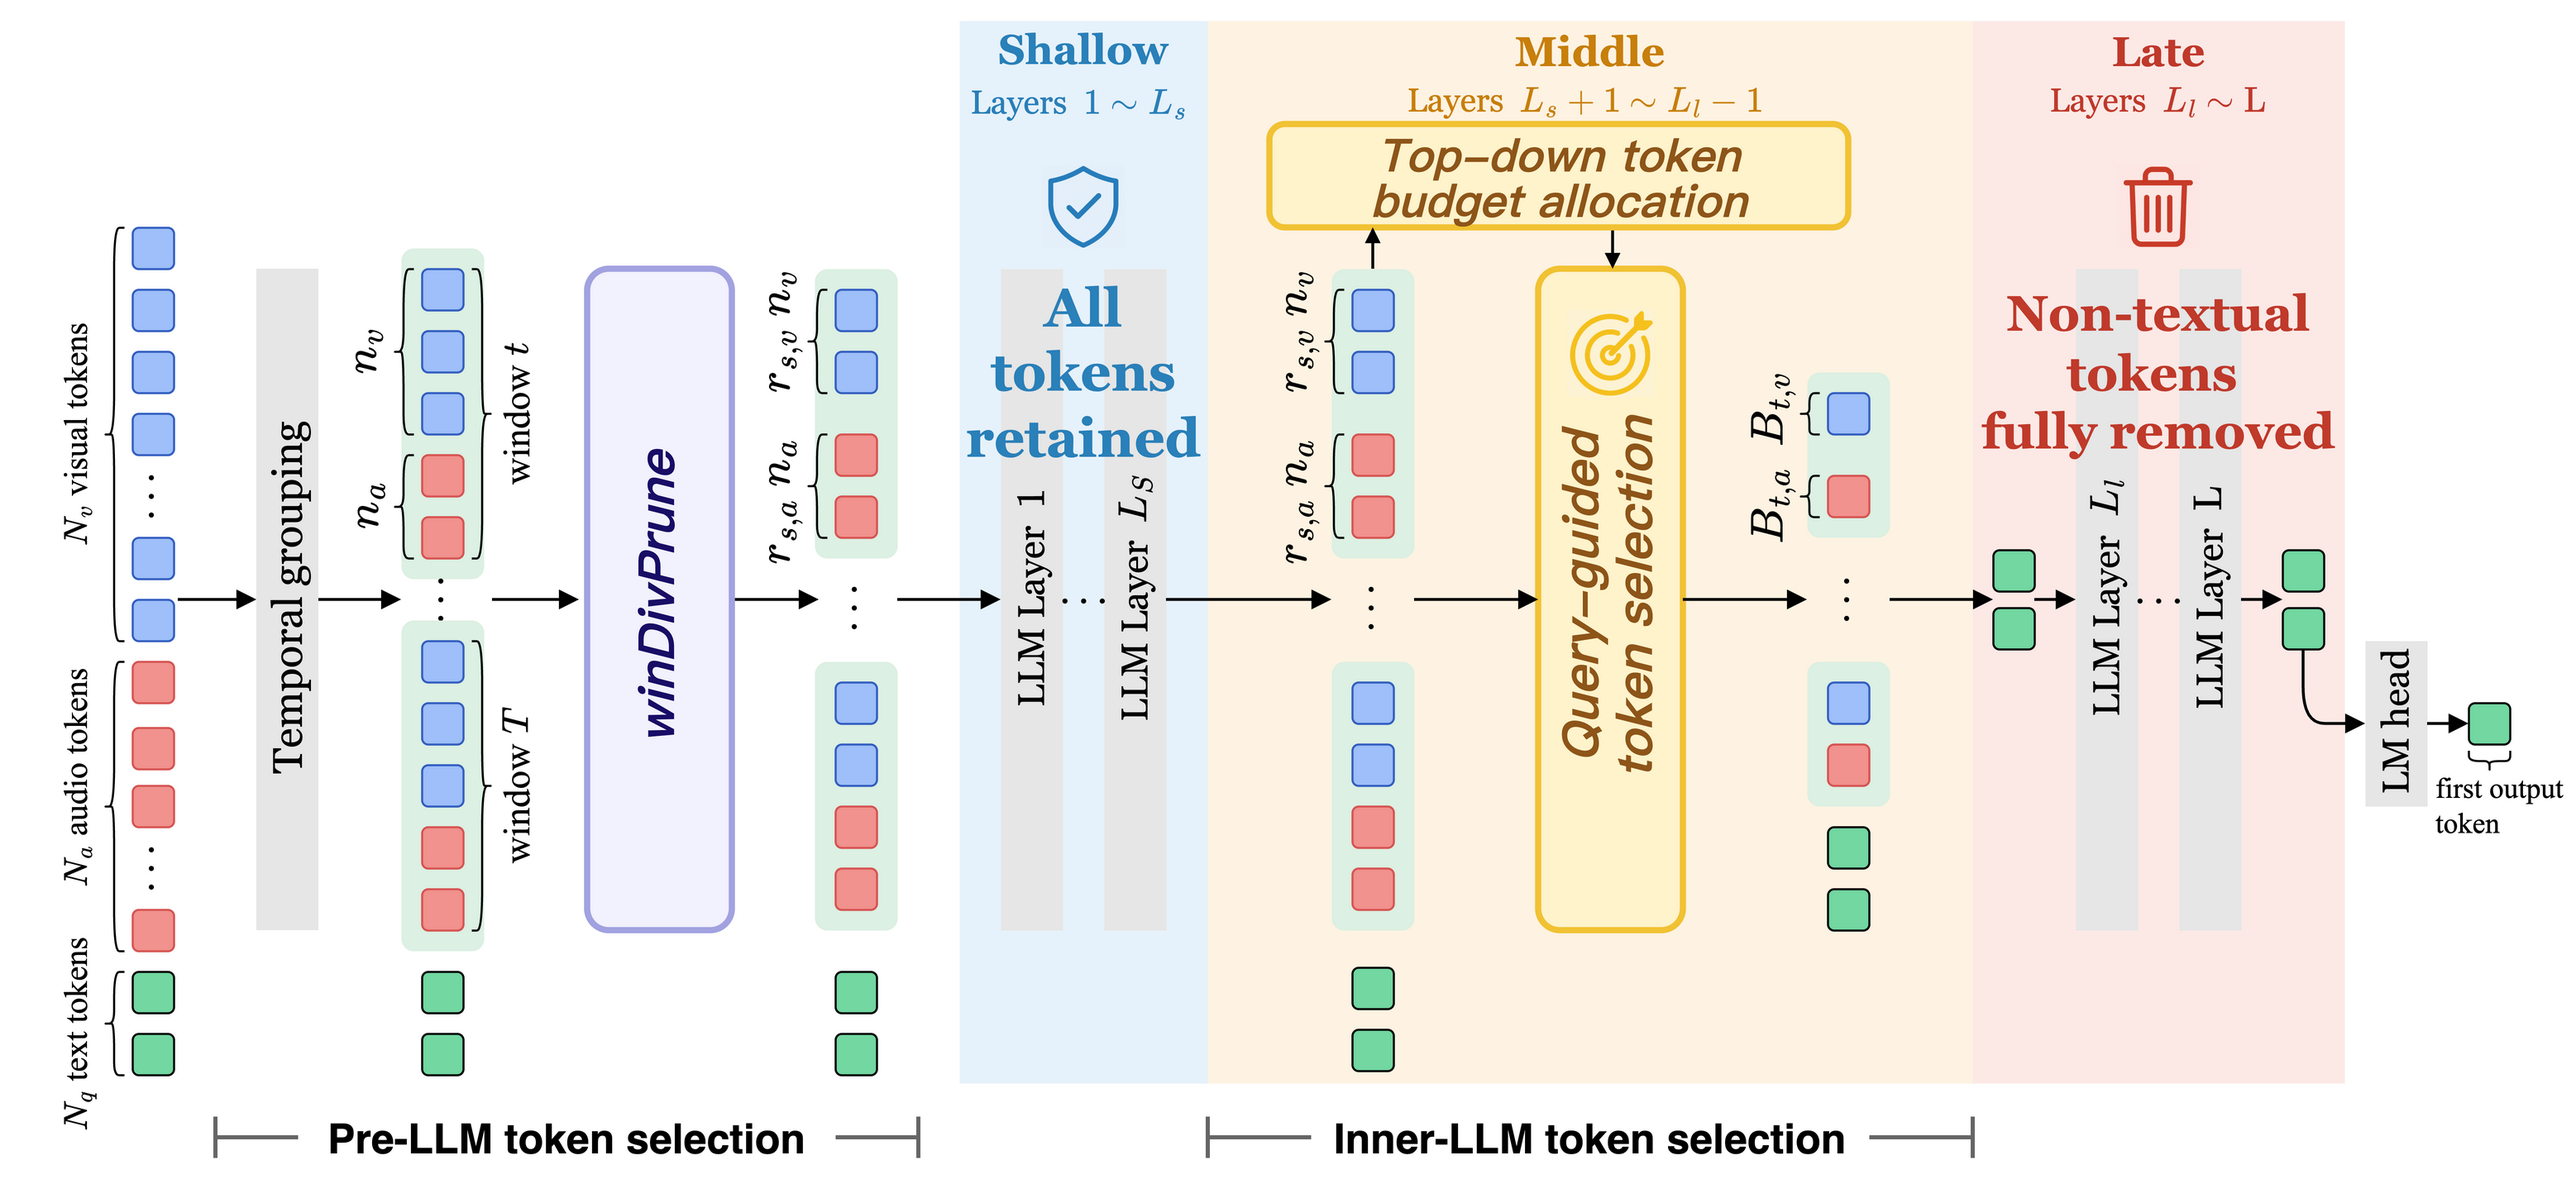
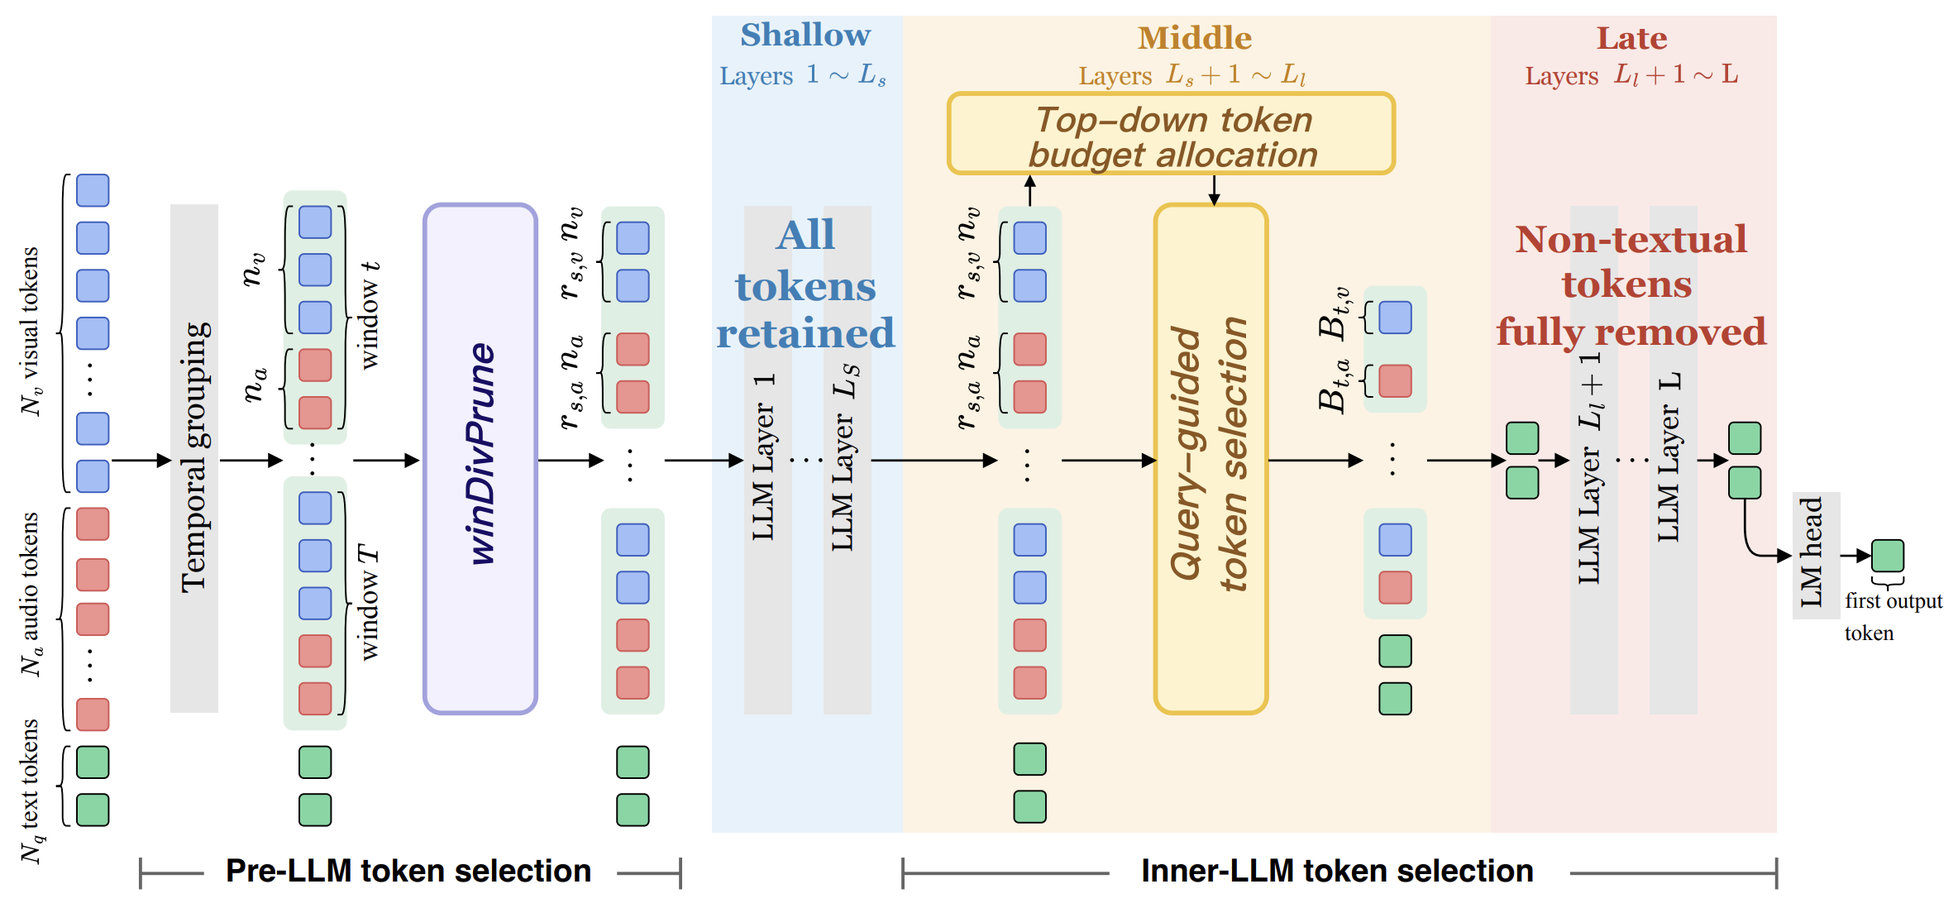
Update SEATS to paper v2: model-agnostic boundaries and linear TRR decay

diff --git a/seats/ratio_decay_scheduler.py b/seats/ratio_decay_scheduler.py
@@ -48,8 +48,8 @@ def block_wise_ratio_decay_schedule(
     else:
         drop_layers = []
 
-    # late_block_layer=24 maps to remove_layer=23 (remove before layer 24).
-    remove_layer = (late_block_layer - 1) if late_block_layer is not None else L
+    # late_block_layer=23 means remove after layer 23.
+    remove_layer = late_block_layer if late_block_layer is not None else L
     remove_layer = min(remove_layer, L)
 
     def _solve_with_remove(enc_ratio, target_ratio, remove_layer):
@@ -81,6 +81,9 @@ def block_wise_ratio_decay_schedule(
                 # Exponential weights: 1, e, e^2, ... (e ~= 2.718).
                 import math
                 return [math.exp(i) for i in range(K)]
+            elif progressive_schedule == "linear":
+                # linear step: arithmetic increase 1, 2, ..., K (shallower drops less, deeper drops more).
+                return [float(i + 1) for i in range(K)]
             else:
                 raise ValueError(f"Unknown progressive_schedule: '{progressive_schedule}'")
 

diff --git a/seats/modeling_qwen3_omni_seats.py b/seats/modeling_qwen3_omni_seats.py
@@ -121,9 +121,9 @@ def Qwen3OmniMoeThinkerTextModel_forward_seats(
                     video_token_mask=self.seats_video_token_mask,
                 )
 
-            # --- Late-block: remove all non-textual tokens (before late_block_layer) ---
+            # --- Late-block: remove all non-textual tokens (after late_block_layer) ---
             late_block_layer = seats_cfg.get("late_block_layer")
-            if late_block_layer is not None and (layer_idx + 1) == late_block_layer - 1:
+            if late_block_layer is not None and (layer_idx + 1) == late_block_layer:
                 (hidden_states, attention_mask, position_ids, position_embeddings, cache_position, past_key_values, keep_mask) = \
                     remove_non_textual_tokens_qwen3(
                     hidden_states=hidden_states,

diff --git a/seats/modeling_qwen2_5_omni_seats.py b/seats/modeling_qwen2_5_omni_seats.py
@@ -134,9 +134,9 @@ def Qwen2_5OmniThinkerTextModel_forward_seats(
                     video_token_mask=self.seats_video_token_mask,
                 )
 
-            # --- Late-block: remove all non-textual tokens (before late_block_layer) ---
+            # --- Late-block: remove all non-textual tokens (after late_block_layer) ---
             late_block_layer = seats_cfg.get("late_block_layer")
-            if late_block_layer is not None and (layer_idx + 1) == late_block_layer - 1:
+            if late_block_layer is not None and (layer_idx + 1) == late_block_layer:
                 (hidden_states, causal_mask, position_ids, position_embeddings, cache_position, past_key_values, keep_mask) = \
                     remove_non_textual_tokens(
                     hidden_states=hidden_states,

diff --git a/README.md b/README.md
@@ -37,6 +37,7 @@
 
 
 ## 📢 News
+- **[2026/09/27]** 📄 Updated paper on [arXiv](https://arxiv.org/abs/2605.20035) with model-agnostic block boundaries, simplified TRR decay schedule, and experiments extended to three om-LLMs and six benchmarks.
 - **[2026/07/12]** 🚀 Released SEATS code for **Qwen3-Omni-30B**, with baselines and evaluation scripts.
 - **[2026/06/07]** 🚀 Released SEATS code for **Qwen2.5-Omni-7B**, with LMMs-Eval integration and baselines including [VisionZip, FastV, OmniZip, and their omni-modal variants](https://github.com/xxayt/SEATS#baselines).
 - **[2026/05/19]** 📄 Paper released on [arXiv](https://arxiv.org/abs/2605.20035) and [project page](https://xxayt.github.io/SEATS/) is online.
@@ -48,9 +49,9 @@
 
 ## ✨ Key Highlights
 - 💡 **New Insight:** Reveals a block-wise dependence pattern in omni-modal LLMs, where reliance on visual and audio tokens weakens with layer depth.
-- ⚡ **Strong Efficiency:** **9.3x FLOPs reduction** and **4.8x prefill speedup** at 10% token retention while preserving **96.3%** performance.
+- ⚡ **Strong Efficiency:** **9.3x FLOPs reduction** and **4.9x prefill speedup** at 10% token retention while preserving **94.9%** performance.
 - 🎯 **Stage-adaptive Design:** Diversity-based pre-LLM selection + query-guided inner-LLM progressive pruning + late-layer full removal.
-- 🔌 **Broad Compatibility:** Plug-and-play and training-free for direct application to Qwen2.5-Omni-7B and Qwen3-Omni-30B.
+- 🔌 **Broad Compatibility:** Plug-and-play and training-free for direct application to Qwen2.5-Omni-7B, OmniVinci-9B, and Qwen3-Omni-30B.
 
 
 ## 📅 TODO
@@ -67,7 +68,7 @@
 ![Method](assets/method.png)
 SEATS is a three-stage method:
 1. **Pre-LLM Token Selection:** Removes spatiotemporal redundancy within each temporal window via attention-weighted diversity selection.
-2. **Inner-LLM Token Selection:** Progressively prunes tokens with a block-wise token retention ratio decay schedule and top-down budget allocation (inter-window then intra-window) guided by query relevance.
+2. **Inner-LLM Token Selection:** Progressively prunes tokens with a model-agnostic block-wise token retention ratio decay schedule and top-down budget allocation (inter-window then intra-window) guided by query relevance.
 3. **Late-block Removal:** Removes all remaining non-textual tokens in late layers where cross-modal fusion is complete.
 
 ## 🔧 Dependencies and Installation
@@ -128,9 +129,9 @@ bash scripts/eval_qwen3_omni_seats.sh    # Qwen3-Omni-30B
 
 You can customize the compression settings by editing:
 - `scripts/eval_qwen2_5_omni_seats.sh` — `tasks_list` (which benchmarks to run) and `ratio_pairs` (per-modality token retention budgets, swept over multiple settings).
-- `seats/config.yaml` — SEATS method hyperparameters (e.g., progressive drop layers, late-block layer, window size).
+- `seats/yaml/config_qwen25_7b.yaml` — SEATS method hyperparameters (e.g., progressive drop layers, late-block layer, window size).
 
-Qwen3-Omni-30B scripts follow the same pattern (`scripts/eval_qwen3_omni_seats.sh` + `seats/config_qwen3_30b.yaml`).
+Qwen3-Omni-30B scripts follow the same pattern (`scripts/eval_qwen3_omni_seats.sh` + `seats/yaml/config_qwen3_30b.yaml`).
 
 
 ### Baselines
@@ -173,7 +174,7 @@ SEATS/
 │   ├── ratio_decay_scheduler.py      # block-wise TRR decay schedule
 │   ├── modeling_qwen2_5_omni_seats.py # patched Thinker / TextModel forwards (Qwen2.5-Omni)
 │   ├── modeling_qwen3_omni_seats.py  # patched Thinker / TextModel forwards (Qwen3-Omni)
-│   └── config.yaml                   # SEATS hyperparameters
+│   └── yaml/config_qwen25_7b.yaml     # SEATS hyperparameters (Qwen2.5-Omni-7B)
 ├── baselines/                        # Per-method patches; one subfolder per baseline
 │   ├── utils.py                      # apply_zip_method_patch() dispatcher
 │   ├── cost_metrics.py               # LLM prefill FLOPs estimation (theoretical)
